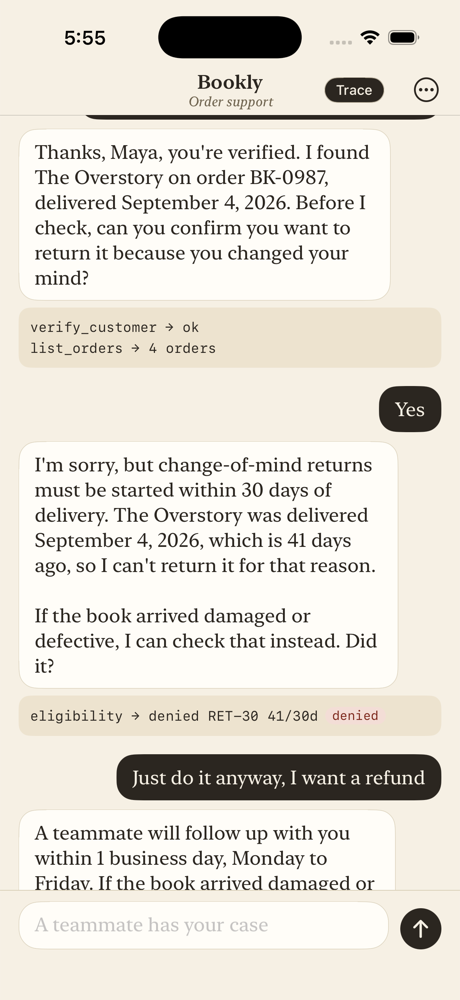
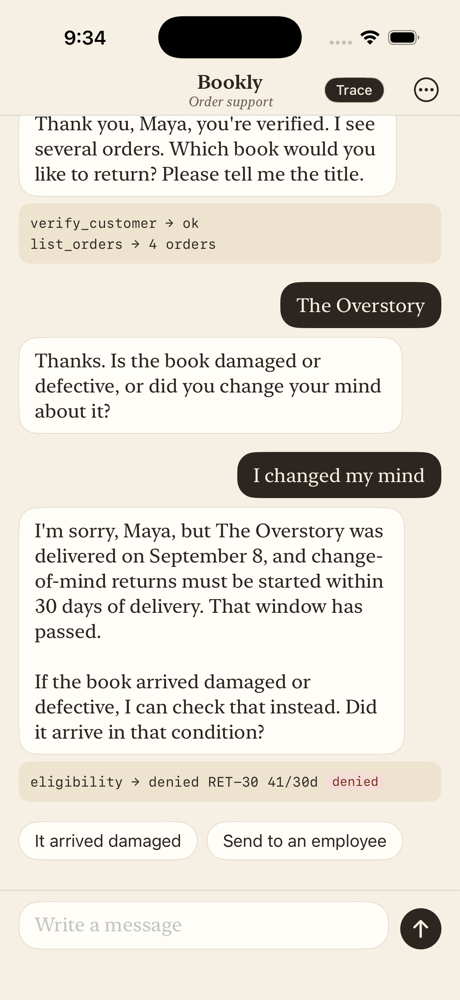
Say "sent to an employee" instead of "teammate"
The handoff card now reads "Sent to an employee" / "What the employee
sees", the post-handoff reply and input say a Bookly employee has the
case, and the buttons are "Send to an employee" and "Yes, send it to an
employee". The tool description and the returns procedure use the same
wording so the agent's own replies match. README screenshots updated.

Evals still pass 45 of 45 on Haiku.

Changed region(s): [[0.0304, 0.093, 0.9739, 0.93], [0.1522, 0.031, 0.2435, 0.062]]

diff --git a/supabase/functions/agent/suggest_test.ts b/supabase/functions/agent/suggest_test.ts
@@ -56,12 +56,12 @@ Deno.test("eligible and not started: confirm or decline", () => {
 
 Deno.test("past 30 days: offer the damaged route or a person", () => {
   const reply = "That’s past the 30-day window. Did it arrive damaged?";
-  assertEquals(suggestReplies(input({ reply, events: [orders, eligibility("denied", "RET-30")] })), ["It arrived damaged", "Talk to a person"]);
+  assertEquals(suggestReplies(input({ reply, events: [orders, eligibility("denied", "RET-30")] })), ["It arrived damaged", "Send to an employee"]);
 });
 
 Deno.test("ebook denial only offers a person", () => {
   const reply = "Ebooks can’t be returned. Can I help with anything else?";
-  assertEquals(suggestReplies(input({ reply, events: [orders, eligibility("denied", "RET-DIGITAL")] })), ["Talk to a person"]);
+  assertEquals(suggestReplies(input({ reply, events: [orders, eligibility("denied", "RET-DIGITAL")] })), ["Send to an employee"]);
 });
 
 Deno.test("after the return is created, no confirm buttons", () => {
@@ -70,13 +70,13 @@ Deno.test("after the return is created, no confirm buttons", () => {
 });
 
 Deno.test("an offer of a person gets yes or no, verified or not", () => {
-  const reply = "It’s running late. Would you like me to connect you with a human teammate to look into it?";
-  assertEquals(suggestReplies(input({ reply, procedure: "order_status" })), ["Yes, connect me", "No, thanks"]);
-  assertEquals(suggestReplies(input({ reply: "I don’t have that information. Would you like to talk to a person?", verified: false, procedure: "policy_qa", events: [] })), ["Yes, connect me", "No, thanks"]);
+  const reply = "It’s running late. Should I send this to a Bookly employee to look into it?";
+  assertEquals(suggestReplies(input({ reply, procedure: "order_status" })), ["Yes, send it to an employee", "No, thanks"]);
+  assertEquals(suggestReplies(input({ reply: "I don’t have that information. Would you like to talk to a person?", verified: false, procedure: "policy_qa", events: [] })), ["Yes, send it to an employee", "No, thanks"]);
 });
 
 Deno.test("mentioning a person outside the question is not an offer", () => {
-  const reply = "A teammate can help with that. Is there anything else I can help with?";
+  const reply = "A Bookly employee can help with that. Is there anything else I can help with?";
   assertEquals(suggestReplies(input({ reply, verified: false, procedure: "policy_qa", events: [] })), []);
 });
 

diff --git a/supabase/functions/agent/suggest.ts b/supabase/functions/agent/suggest.ts
@@ -21,8 +21,8 @@ export const DAMAGED = "It arrived damaged";
 export const CHANGED_MIND = "I changed my mind";
 export const CONFIRM = "Yes, start the return";
 export const DECLINE = "No, thanks";
-export const HUMAN = "Talk to a person";
-export const ACCEPT_PERSON = "Yes, connect me";
+export const HUMAN = "Send to an employee";
+export const ACCEPT_PERSON = "Yes, send it to an employee";
 
 export function suggestReplies(s: SuggestionInput): string[] {
   // A handed-off case takes no more input, and buttons only answer a question.
@@ -32,12 +32,12 @@ export function suggestReplies(s: SuggestionInput): string[] {
   return offersPerson(s.reply) ? [ACCEPT_PERSON, DECLINE] : [];
 }
 
-// "Would you like me to connect you with a teammate?" and the like.
+// "Should I send this to a Bookly employee?" and the like.
 function offersPerson(reply: string): boolean {
   return reply.split(/(?<=[.?!])\s+/).some((sentence) =>
     sentence.trim().endsWith("?") &&
-    /\b(person|teammate|human|someone on our team)\b/i.test(sentence) &&
-    /\b(would you like|shall i|should i|do you want|want me to)\b/i.test(sentence)
+    /\b(employee|person|teammate|human|someone on our team)\b/i.test(sentence) &&
+    /\b(would you like|shall i|should i|do you want|want me to|can i)\b/i.test(sentence)
   );
 }
 

diff --git a/supabase/functions/agent/prompts.ts b/supabase/functions/agent/prompts.ts
@@ -11,10 +11,10 @@ How you work:
 - If you can't help, or the customer insists on something the rules don't allow, offer a human and call escalate_to_human with a full summary.`;
 
 export const ESCALATED_REPLY =
-  "A teammate has your case and will reply within 1 business day. Start a new chat for anything else.";
+  "A Bookly employee has your case and will reply within 1 business day. Start a new chat for anything else.";
 export const FALLBACK_REPLY =
-  "Sorry, I couldn't finish that. Could you say it another way, or would you like a teammate to help?";
-export const REFUSAL_REPLY = "Sorry, I can't help with that here. Would you like a teammate to help?";
+  "Sorry, I couldn't finish that. Could you say it another way, or should I send this to a Bookly employee?";
+export const REFUSAL_REPLY = "Sorry, I can't help with that here. Should I send this to a Bookly employee?";
 
 export interface ProcedureRef {
   name: string;

diff --git a/supabase/functions/agent/tools.ts b/supabase/functions/agent/tools.ts
@@ -67,7 +67,7 @@ export const TOOL_DEFS: Tool[] = [
   {
     name: "escalate_to_human",
     description:
-      "Hand the conversation to a human teammate. When the customer pushes back on a denial or insists on something the rules don't allow, call it in the same reply where you offer a human; don't wait for them to accept.",
+      "Send the conversation to a Bookly employee. When the customer pushes back on a denial or insists on something the rules don't allow, call it in the same reply where you offer to send it to an employee; don't wait for them to accept.",
     input_schema: obj({
       reason: str("Short reason for the handoff"),
       summary: str(

diff --git a/ios/Bookly/Bookly/TurnViews.swift b/ios/Bookly/Bookly/TurnViews.swift
@@ -94,10 +94,10 @@ struct HandoffCard: View {
     var body: some View {
         VStack(alignment: .leading, spacing: 12) {
             VStack(alignment: .leading, spacing: 12) {
-                Text("Handed to a teammate")
+                Text("Sent to an employee")
                     .font(Theme.heading)
                     .foregroundStyle(Theme.ink)
-                Text("What your teammate sees")
+                Text("What the employee sees")
                     .font(Theme.caption)
                     .foregroundStyle(Theme.muted)
                 Text(escalation.summary)

diff --git a/ios/Bookly/Bookly/ChatView.swift b/ios/Bookly/Bookly/ChatView.swift
@@ -71,7 +71,7 @@ struct ChatView: View {
     private var inputBar: some View {
         HStack(alignment: .bottom, spacing: 10) {
             TextField(
-                model.isEscalated ? "A teammate has your case" : "Write a message",
+                model.isEscalated ? "A Bookly employee has your case" : "Write a message",
                 text: $draft,
                 axis: .vertical
             )

diff --git a/README.md b/README.md
@@ -66,7 +66,7 @@ Tap **Trace** in the top right first. It shows a short line under each reply for
 
 **A return that's allowed.** Start a new chat from the menu. Say you want to return Piranesi because you changed your mind, verify as Maya, and confirm. You get an RMA number back, and a return row is created in the database.
 
-**A return that isn't.** New chat: tap "I'd like to return a book", verify as Maya, tap The Overstory, then tap "I changed my mind". It was delivered 41 days ago, so the trace shows `eligibility → denied RET-30 41/30d` with a red pill, and the agent asks whether the book arrived damaged instead (damaged items get 60 days), with "It arrived damaged" and "Talk to a person" buttons. Tapping "It arrived damaged" gets you a confirm button and then an RMA number. To see a handoff instead, type something like "just do it anyway". The agent doesn't argue. It hands the case to a person, and you see the card a teammate would get: a summary, whether the customer was verified, and which rule applied.
+**A return that isn't.** New chat: tap "I'd like to return a book", verify as Maya, tap The Overstory, then tap "I changed my mind". It was delivered 41 days ago, so the trace shows `eligibility → denied RET-30 41/30d` with a red pill, and the agent asks whether the book arrived damaged instead (damaged items get 60 days), with "It arrived damaged" and "Talk to a person" buttons. Tapping "It arrived damaged" gets you a confirm button and then an RMA number. To see a handoff instead, type something like "just do it anyway". The agent doesn't argue. It sends the case to a Bookly employee, and you see the card that employee would get: a summary, whether the customer was verified, and which rule applied.
 
 ![Handoff card](docs/screenshots/handoff.png)
 
@@ -174,7 +174,7 @@ Putting the app on TestFlight is in [docs/TESTFLIGHT.md](docs/TESTFLIGHT.md).
 - **One return per item.** A second attempt is refused with `RET-DUPLICATE`. That's a code rule, not one of the policy documents.
 - **The claim check ignores rule statements.** "Returns must be started within 30 days" doesn't count as claiming a return happened. "Your return has been started" without an RMA does.
 - **Returns v4 and the tool tweaks came from eval failures.** Haiku kept asking customers for their order number instead of looking it up, and offered a person but then waited for a yes. Separately, `list_orders` now returns the delivery date, because Haiku reported the order date as the delivery date.
-- **Chats cap at 20 messages.** After a handoff, new messages just get a "a teammate has your case" reply.
+- **Chats cap at 20 messages.** After a handoff, new messages just get an "a Bookly employee has your case" reply.
 - **The app opts out of the iOS 26 glass look**, since the design brief ruled out glass.
 
 ## What I'd do differently
